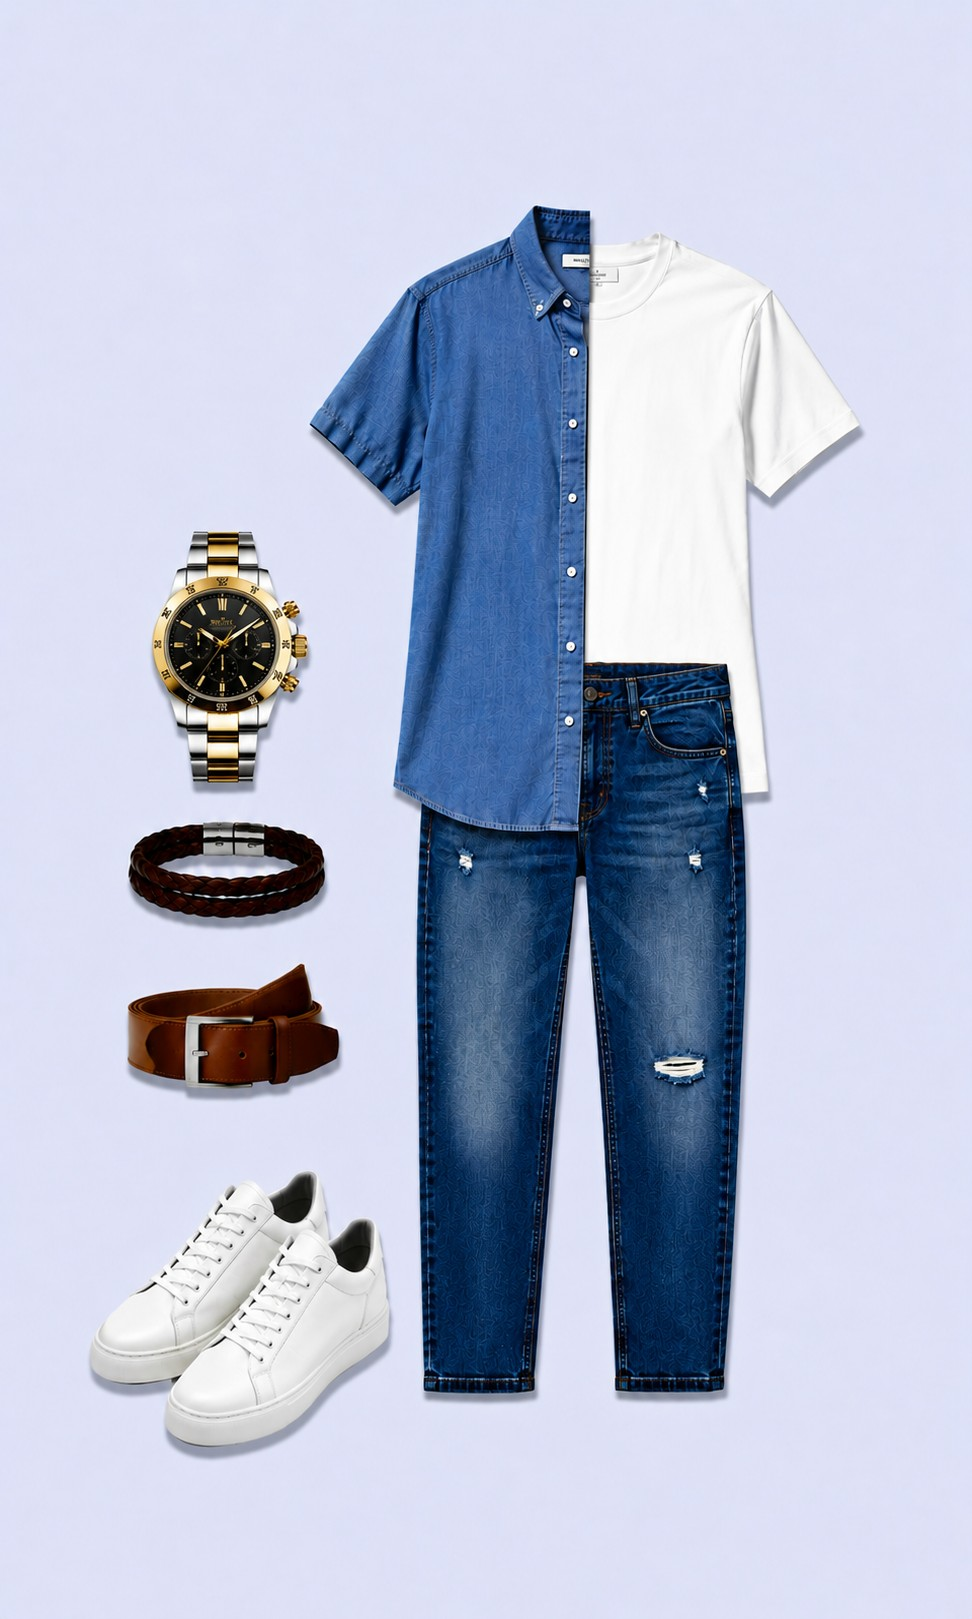
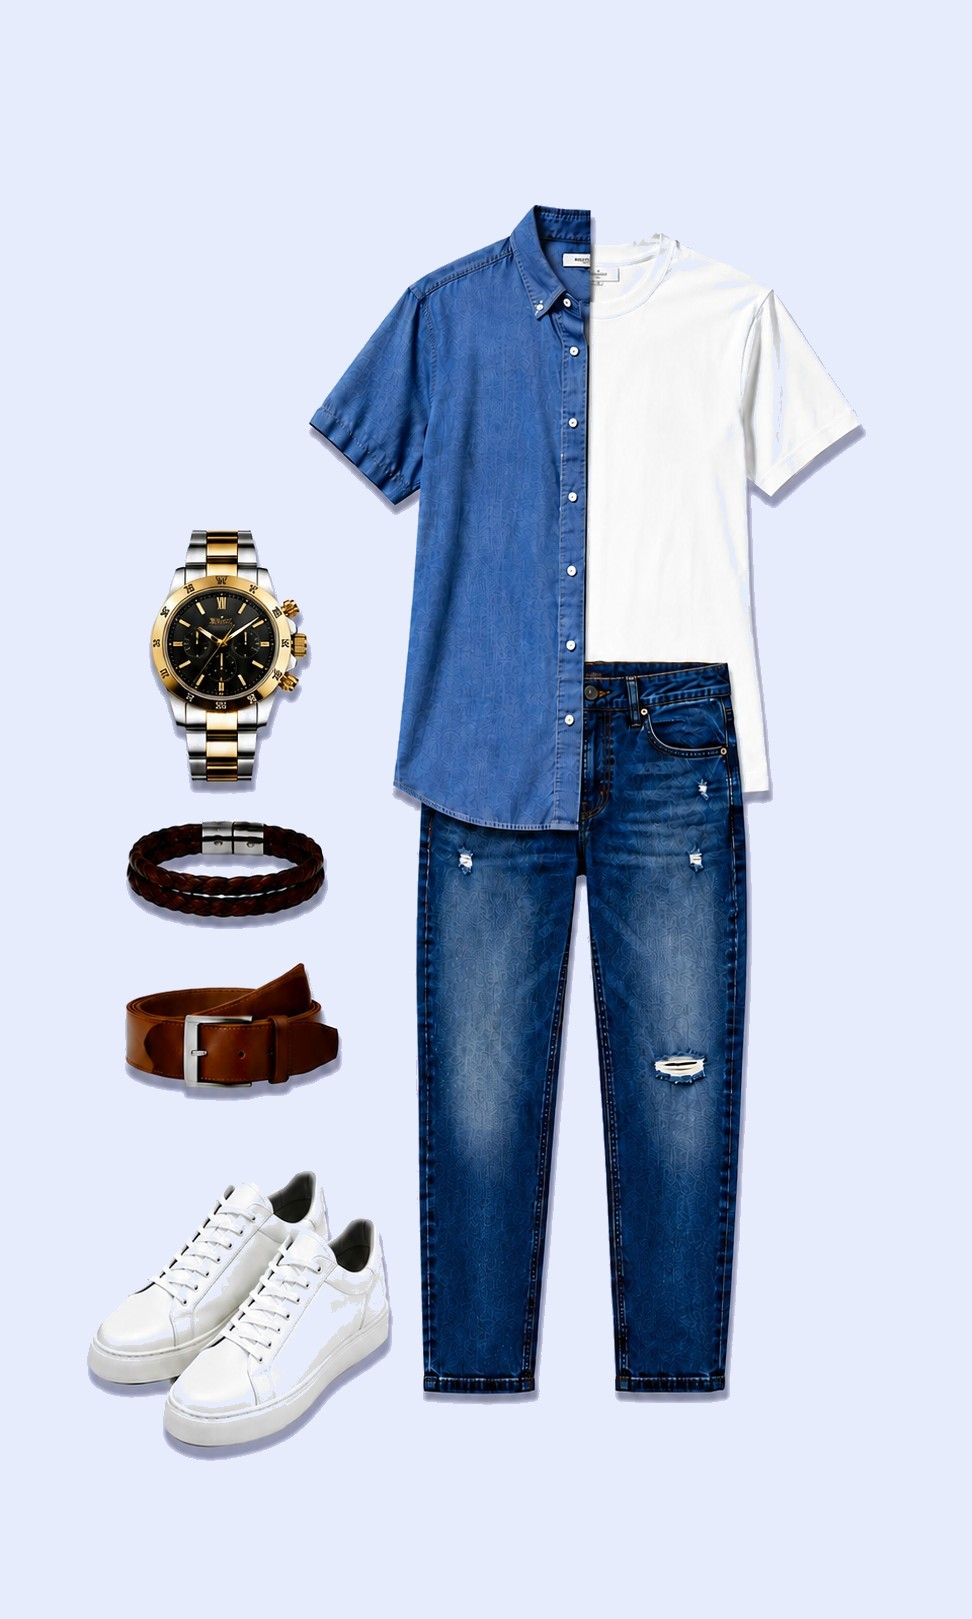
Updated assets and ahvi style this processing card

diff --git a/lib/feature/chat/widgets/ahvi_style_this_processing_card.dart b/lib/feature/chat/widgets/ahvi_style_this_processing_card.dart
@@ -17,82 +17,88 @@ class AhviStyleThisProcessingCard extends StatelessWidget {
     final name = itemName.trim();
     final title = name.isEmpty ? 'Styling your piece' : 'Styling your $name';
 
-    return Container(
-      padding: const EdgeInsets.fromLTRB(18, 12, 18, 12),
-      decoration: BoxDecoration(
-        color: t.card,
-        borderRadius: BorderRadius.circular(20),
-        border: Border.all(color: t.cardBorder),
-        boxShadow: [
-          BoxShadow(
-            color: Colors.black.withValues(alpha: 0.18),
-            blurRadius: 24,
-            offset: const Offset(0, 8),
-          ),
-        ],
-      ),
-      child: Column(
-        mainAxisSize: MainAxisSize.min,
-        crossAxisAlignment: CrossAxisAlignment.start,
-        children: [
-          Row(
-            mainAxisSize: MainAxisSize.min,
-            children: [
-              Text(
-                '✦',
-                style: TextStyle(
+    return Material(
+      // Prevents the "missing Material ancestor" yellow-underline debug
+      // style: this card is shown over the dimmed item-detail barrier
+      // (Overlay/Stack), which has no Material/Scaffold ancestor of its own.
+      type: MaterialType.transparency,
+      child: Container(
+        padding: const EdgeInsets.fromLTRB(18, 12, 18, 12),
+        decoration: BoxDecoration(
+          color: t.card,
+          borderRadius: BorderRadius.circular(20),
+          border: Border.all(color: t.cardBorder),
+          boxShadow: [
+            BoxShadow(
+              color: Colors.black.withValues(alpha: 0.18),
+              blurRadius: 24,
+              offset: const Offset(0, 8),
+            ),
+          ],
+        ),
+        child: Column(
+          mainAxisSize: MainAxisSize.min,
+          crossAxisAlignment: CrossAxisAlignment.start,
+          children: [
+            Row(
+              mainAxisSize: MainAxisSize.min,
+              children: [
+                Text(
+                  '✦',
+                  style: TextStyle(
+                    color: t.accent.primary,
+                    fontSize: 13,
+                    height: 1,
+                    fontWeight: FontWeight.w700,
+                  ),
+                ),
+                const SizedBox(width: 6),
+                Text(
+                  'AHVI',
+                  style: GoogleFonts.inter(
+                    fontSize: 11,
+                    fontWeight: FontWeight.w700,
+                    letterSpacing: 1.2,
+                    color: t.accent.primary,
+                  ),
+                ),
+              ],
+            ),
+            const SizedBox(height: 6),
+            Text(
+              title,
+              maxLines: 1,
+              overflow: TextOverflow.ellipsis,
+              style: GoogleFonts.inter(
+                fontSize: 15,
+                fontWeight: FontWeight.w700,
+                color: t.textPrimary,
+              ),
+            ),
+            const SizedBox(height: 3),
+            Text(
+              'Finding the best pieces from your wardrobe…',
+              maxLines: 1,
+              overflow: TextOverflow.ellipsis,
+              style: GoogleFonts.inter(
+                fontSize: 12.5,
+                fontWeight: FontWeight.w500,
+                color: t.mutedText,
+              ),
+            ),
+            const SizedBox(height: 8),
+            ClipRRect(
+              borderRadius: BorderRadius.circular(4),
+              child: SizedBox(
+                height: 3,
+                child: LinearProgressIndicator(
                   color: t.accent.primary,
-                  fontSize: 13,
-                  height: 1,
-                  fontWeight: FontWeight.w700,
+                  backgroundColor: t.accent.primary.withValues(alpha: 0.15),
                 ),
               ),
-              const SizedBox(width: 6),
-              Text(
-                'AHVI',
-                style: GoogleFonts.inter(
-                  fontSize: 11,
-                  fontWeight: FontWeight.w700,
-                  letterSpacing: 1.2,
-                  color: t.accent.primary,
-                ),
-              ),
-            ],
-          ),
-          const SizedBox(height: 6),
-          Text(
-            title,
-            maxLines: 1,
-            overflow: TextOverflow.ellipsis,
-            style: GoogleFonts.inter(
-              fontSize: 15,
-              fontWeight: FontWeight.w700,
-              color: t.textPrimary,
             ),
-          ),
-          const SizedBox(height: 3),
-          Text(
-            'Finding the best pieces from your wardrobe…',
-            maxLines: 1,
-            overflow: TextOverflow.ellipsis,
-            style: GoogleFonts.inter(
-              fontSize: 12.5,
-              fontWeight: FontWeight.w500,
-              color: t.mutedText,
-            ),
-          ),
-          const SizedBox(height: 8),
-          ClipRRect(
-            borderRadius: BorderRadius.circular(4),
-            child: SizedBox(
-              height: 3,
-              child: LinearProgressIndicator(
-                color: t.accent.primary,
-                backgroundColor: t.accent.primary.withValues(alpha: 0.15),
-              ),
-            ),
-          ),
-        ],
+          ],
+        ),
       ),
     );
   }
